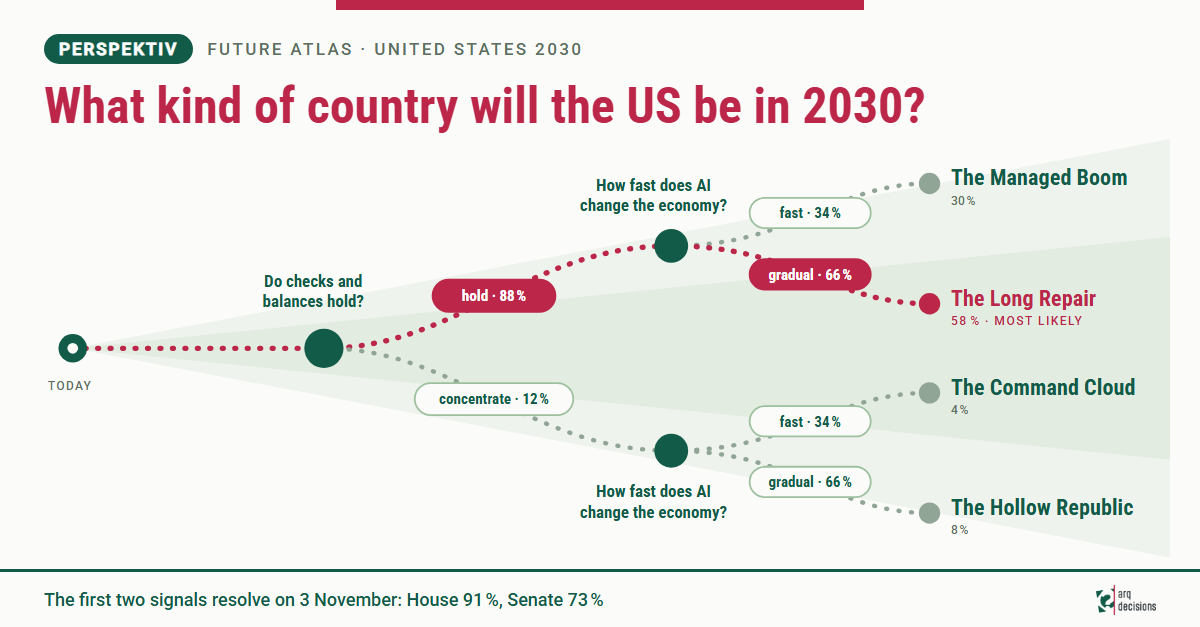
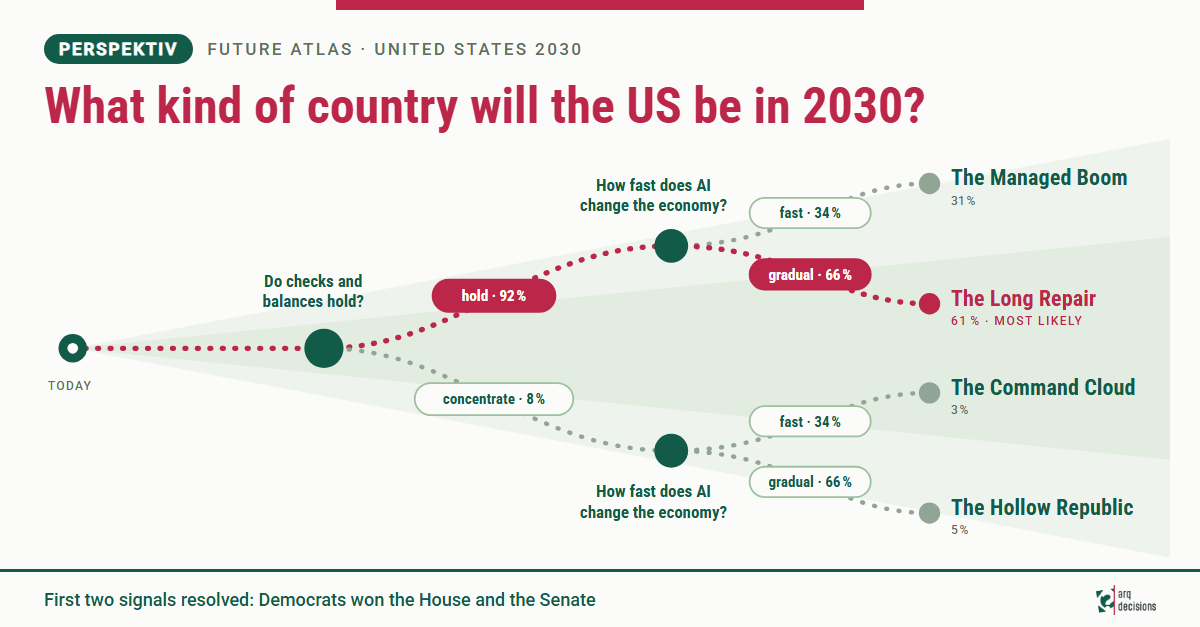
Atlas: House and Senate signals resolved, marker moved

Changed region(s): [[0.0308, 0.9394, 0.5242, 0.9697], [0.37, 0.6061, 0.4625, 0.6667], [0.4008, 0.4545, 0.4317, 0.4848]]

diff --git a/app/atlas/index.html b/app/atlas/index.html
@@ -4,10 +4,10 @@
 <meta charset="utf-8">
 <meta name="viewport" content="width=device-width, initial-scale=1, viewport-fit=cover">
 <title>America 2030 Future Atlas</title>
-<meta name="description" content="Two open questions decide what kind of country the US will be in 2030: whether checks and balances hold, and how fast AI changes the economy. Eight forecast signals show which way it goes; the first two resolve on 3 November 2026.">
+<meta name="description" content="Two open questions decide what kind of country the US will be in 2030: whether checks and balances hold, and how fast AI changes the economy. Eight forecast signals show which way it goes; the first two resolved on 3 November 2026: Democrats won the House and the Senate.">
 <meta property="og:type" content="website">
 <meta property="og:title" content="America 2030 Future Atlas">
-<meta property="og:description" content="Two open questions decide what kind of country the US will be in 2030: whether checks and balances hold, and how fast AI changes the economy. Eight forecast signals show which way it goes; the first two resolve on 3 November 2026.">
+<meta property="og:description" content="Two open questions decide what kind of country the US will be in 2030: whether checks and balances hold, and how fast AI changes the economy. Eight forecast signals show which way it goes; the first two resolved on 3 November 2026: Democrats won the House and the Senate.">
 <meta property="og:url" content="https://nikwall.github.io/midterms-2026-forecast/atlas/">
 <meta property="og:image" content="https://nikwall.github.io/midterms-2026-forecast/atlas/og.png">
 <meta property="og:image:width" content="1200">
@@ -255,7 +255,7 @@ footer.ft { margin-top: 44px; border-top: 2px solid var(--brand); padding-top: 1
 
   <p class="kick">The guiding question</p>
   <h1>What kind of country will the United States be in&nbsp;2030?</h1>
-  <p class="lead">Two open questions decide it: whether checks and balances hold, and how fast AI changes the economy. Eight signals show early which way the country is heading. The first two resolve on Tuesday, 3&nbsp;November.</p>
+  <p class="lead">Two open questions decide it: whether checks and balances hold, and how fast AI changes the economy. Eight signals show early which way the country is heading. The first two resolved on 3&nbsp;November: Democrats won the House and the Senate.</p>
 
   <!-- ================= Landkarte ================= -->
   <section aria-labelledby="l-map">
@@ -374,12 +374,12 @@ footer.ft { margin-top: 44px; border-top: 2px solid var(--brand); padding-top: 1
 
   // ifYes = P(positive pole of the axis | signal resolves yes), our judgment. ifNo follows from the prior.
   const SIGNALS = [
-    { id: "S1", href: "../#congress", axis: "checks", dir: "pos", p: 0.91, ifYes: 0.898, date: "2026-11-03", short: "Democrats win the House",
+    { id: "S1", href: "../#results", axis: "checks", dir: "pos", p: 0.91, ifYes: 0.898, date: "2026-11-03", short: "Democrats win the House",
       q: "Democrats win a majority in the House on 3 November 2026.",
       who: "Our midterms model", extra: "Markets 92 % · resolves Nov 2026",
       why: "D+8 national environment; 237 seats in the median simulation, 80 % range 219–264.",
       then: "Subpoenas, the budget and oversight hearings go to the opposition in January." },
-    { id: "S2", href: "../#congress", axis: "checks", dir: "pos", p: 0.70, ifYes: 0.906, date: "2026-11-03", short: "Democrats win the Senate",
+    { id: "S2", href: "../#results", axis: "checks", dir: "pos", p: 0.70, ifYes: 0.906, date: "2026-11-03", short: "Democrats win the Senate",
       q: "Democrats win a majority in the Senate on 3 November 2026.",
       who: "Our midterms model", extra: "Markets 67.5 % · resolves Nov 2026",
       why: "52 seats in the median simulation; Alaska is the tipping-point race.",
@@ -434,8 +434,8 @@ footer.ft { margin-top: 44px; border-top: 2px solid var(--brand); padding-top: 1
   FIELDS.HF.mm = [0,1,0,0]; FIELDS.HG.mm = [1,0,0,0]; FIELDS.CF.mm = [0,0,0,1]; FIELDS.CG.mm = [0,0,1,0];
 
   // Set a signal to "yes" or "no" once it is called; it then counts as evidence for "today".
-  const RESOLVED = { S1: null, S2: null };
-  const RESOLVED_ON = { S1: "", S2: "" };   // e.g. "4 Nov 2026"
+  const RESOLVED = { S1: "yes", S2: "yes" };
+  const RESOLVED_ON = { S1: "4 Nov 2026", S2: "3 Nov 2026" };   // when AP called control, US Eastern time
 
   const STATES = { AK: "Alaska", AL: "Alabama", AR: "Arkansas", AZ: "Arizona", CA: "California", CO: "Colorado", CT: "Connecticut", DE: "Delaware", FL: "Florida", GA: "Georgia",
     HI: "Hawaii", IA: "Iowa", ID: "Idaho", IL: "Illinois", IN: "Indiana", KS: "Kansas", KY: "Kentucky", LA: "Louisiana", MA: "Massachusetts", MD: "Maryland", ME: "Maine",
@@ -454,10 +454,12 @@ footer.ft { margin-top: 44px; border-top: 2px solid var(--brand); padding-top: 1
       s.extra = (m ? "Markets " + p0(m) + " · " : "") + "resolves Nov 2026";
       if (h.dem_seats && h.dem_seats.ci80) s.why = (typeof env === "number" ? (env >= 0 ? "D+" : "R+") + Math.abs(Math.round(env)) + " national environment; " : "") +
         h.dem_seats.median + " seats in the median simulation, 80\u202f% range " + h.dem_seats.ci80[0] + "–" + h.dem_seats.ci80[1] + ".";
-      const pH = h.p_dem_control, s3 = get("S3"), s8 = get("S8");
+      const pH = RESOLVED.S1 ? (RESOLVED.S1 === "yes" ? 1 : 0) : h.p_dem_control, s3 = get("S3"), s8 = get("S8");
       s3.p = pH * 0.68 + (1 - pH) * 0.02;
-      s3.why = p0(pH) + " Democratic House × 68\u202f% if Democrats lead it + " + p0(1 - pH) + " × 2\u202f% otherwise. Precedents: Barr and Ross in 2019, Garland in 2024.";
+      s3.why = (RESOLVED.S1 === "yes" ? "Democrats lead the House from January: 68\u202f% with them in charge."
+        : p0(pH) + " Democratic House × 68\u202f% if Democrats lead it + " + p0(1 - pH) + " × 2\u202f% otherwise.") + " Precedents: Barr and Ross in 2019, Garland in 2024.";
       s8.p = 0.08 + 0.92 * (pH * 0.04 + (1 - pH) * 0.20);
+      if (RESOLVED.S1 === "yes") s8.why = s8.why.replace("a likely Democratic House", "the Democratic House");
     }
     if (se && typeof se.p_dem_control === "number") {
       const s = get("S2"), m = market("p_dem_senate"); s.p = se.p_dem_control;
@@ -472,8 +474,21 @@ footer.ft { margin-top: 44px; border-top: 2px solid var(--brand); padding-top: 1
     }
   }
 
-  fetch("../data/forecast.json", { cache: "no-cache" }).then(r => r.ok ? r.json() : null).catch(() => null)
-    .then(fc => { try { if (fc) applyForecast(fc); } catch (e) { console.warn("forecast.json not applied", e); } boot(); });
+  // Resolved signals show the count so far; results.json refreshes every three hours.
+  function applyResults(r, fc) {
+    const get = id => SIGNALS.find(s => s.id === id), day = t => new Date(t).toLocaleDateString("en-GB", { day: "numeric", month: "short", year: "numeric" });
+    const ahead = n => n ? " and lead in " + n + " more" : "", ci = fc.house.dem_seats.ci80;
+    if (RESOLVED.S1) get("S1").why = "Democrats have " + r.house.called.D + " seats called" + ahead(r.house.leading.D) + ". We forecast " + fc.house.dem_seats.median +
+      " (80\u202f% range " + ci[0] + "–" + ci[1] + ").";
+    if (RESOLVED.S2) get("S2").why = "Democrats hold " + (r.not_up.D + r.senate.called.D) + " seats" + ahead(r.senate.leading.D) + ". We forecast " + fc.senate.dem_seats.median + ".";
+    document.getElementById("stamp").textContent = "Forecast of " + day(fc.meta.updated) + " · results as of " + day(r.updated);
+  }
+
+  const load = path => fetch(path, { cache: "no-cache" }).then(r => r.ok ? r.json() : null).catch(() => null);
+  Promise.all([load("../data/forecast.json"), load("../data/results.json")]).then(([fc, res]) => {
+    try { if (fc) applyForecast(fc); if (fc && res) applyResults(res, fc); } catch (e) { console.warn("forecast.json not applied", e); }
+    boot();
+  });
 
   function boot() {
   SIGNALS.forEach(s => { s.resolved = RESOLVED[s.id] || null; s.resolvedOn = RESOLVED_ON[s.id] || ""; });
@@ -517,7 +532,7 @@ footer.ft { margin-top: 44px; border-top: 2px solid var(--brand); padding-top: 1
         '<p class="src">' + (s.href ? '<a class="who" href="' + s.href + '">' + s.who + "</a>" : '<span class="who' + (s.est ? " est" : "") + '">' + s.who + "</span>") +
           "<span>" + (s.resolved ? "Forecast " + Math.round(s.p * 100) + " % · resolved " + s.resolvedOn : s.extra) + "</span></p>" +
         '<p class="why">' + s.why + "</p>" +
-        '<p class="then">' + mm(dirCells(s)) + "<span><b>If yes, toward " + poleName(s) + ":</b> " + s.then + "</span></p>" +
+        '<p class="then">' + mm(dirCells(s)) + "<span><b>" + (s.resolved === "yes" ? "Yes, so toward " : "If yes, toward ") + poleName(s) + ":</b> " + s.then + "</span></p>" +
         (s.resolved ? '<span class="resolved">Resolved: ' + s.resolved + "</span>" :
         '<div class="seg3" role="group" aria-label="What-if for: ' + s.short + '">' +
           '<button type="button" data-v="open" aria-pressed="true">Open</button>' +

diff --git a/PROCESS.md b/PROCESS.md
@@ -397,3 +397,11 @@ The entry stands as frozen on 2 Nov. From now on only results change.
 - **Cause:** one shared national error. The House vote so far is D+11.5, against the D+8.2 we expected.
 - **Regions:** the miss was largest in the South (13 of the 26) and Midwest (8). By division, West South Central came in 11 points above us, against 4.5 on average. Non-safe seats won against expected: South 23 vs 14, Midwest 20 vs 13, West 10 vs 7, Northeast 7 vs 5.
 - **Sources:** Brier on the same 458 races: markets 0.035, us 0.040, fundamentals 0.056. On the 104 polled races: us 0.112, polls 0.119.
+
+## 5 November 2026: the first two atlas signals resolved
+
+| # | Choice | Why |
+|---|---|---|
+| M5 | S1 (House) and S2 (Senate) are marked resolved: yes. Dates are the AP calls in US Eastern time: Senate 3 Nov (11:34 PM), House 4 Nov (2:13 AM). Both cards now show the count from `results.json`, beside the forecast, and link to the results tab. | The calls are in. The marker moves by the page rule: checks hold 88 % to 92 %, The Long Repair 58 % to 61 %. |
+| M6 | S3 (contempt vote) and S8 (AI preemption law) were built on P(D House). They now start from the result: S3 68 % (was 62 %), S8 stays at 12 %. | Otherwise the page would still use a 91 % chance for something that has happened. |
+| M7 | The link-preview image `app/atlas/og.png` is redrawn with the new numbers. `gen_cards.py` now leaves `post1_map.png` alone by default, because that is the image as posted on 2 Nov. | The old image still said the signals resolve on 3 November. |
